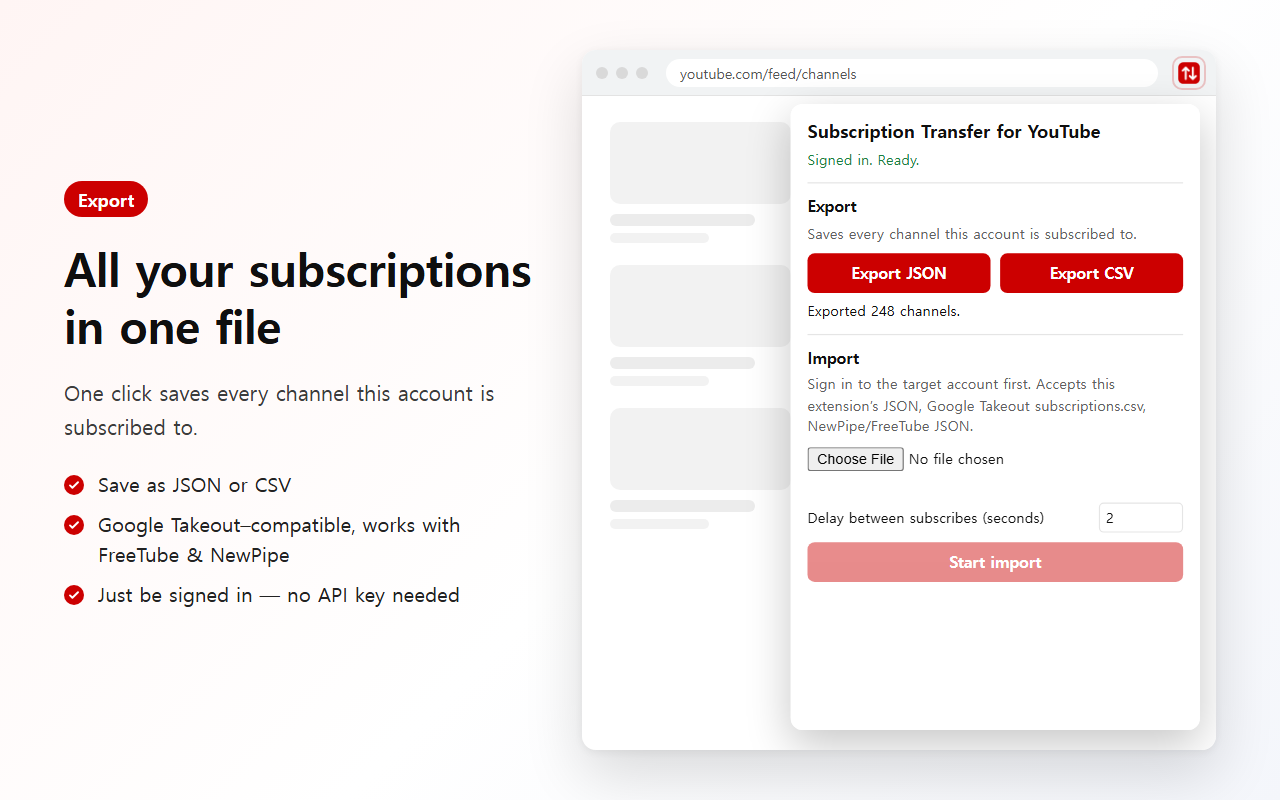
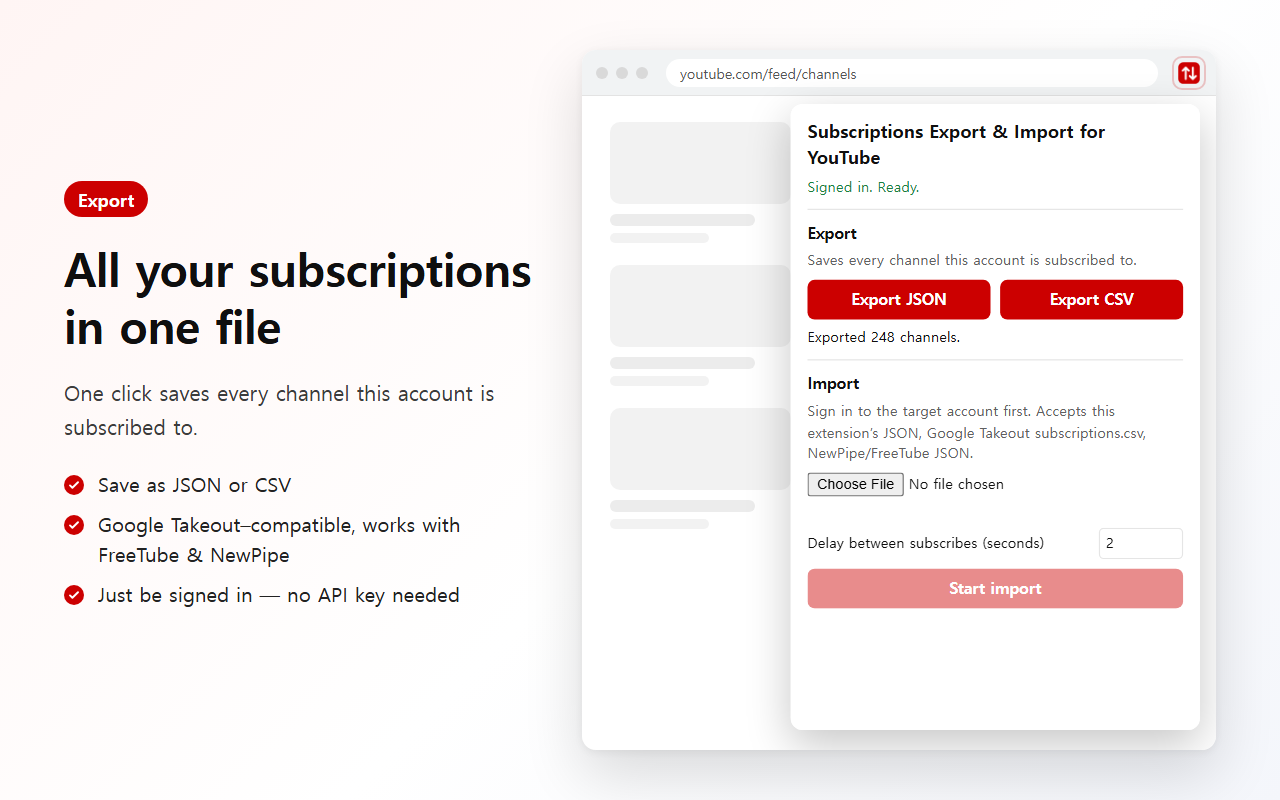
영어 이름을 Subscriptions Export & Import for YouTube로 변경
스토어 검색어(export/import)가 이름에 들어가도록 수정, 영어 스크린샷·프로모션 타일 재생성

Claude-Session: https://claude.ai/code/session_01JHg1uSpqvDdwgKG2sFbbaw

Changed region(s): [[0.625, 0.1875, 0.9375, 0.7812], [0.7188, 0.1562, 0.875, 0.1875]]

diff --git a/store-assets/promo.html b/store-assets/promo.html
@@ -25,7 +25,7 @@
   const lang = new URLSearchParams(location.search).get('lang') || 'ko';
   const t = {
     ko: ['구독 내보내기·가져오기<br>(YouTube용)', '진짜로 무료입니다', '광고 없음 · 서버 없음 · 개인정보 수집 없음'],
-    en: ['Subscription Transfer<br>for YouTube', 'Truly free', 'No ads · No server · No data collected'],
+    en: ['Subscriptions Export<br>&amp; Import for YouTube', 'Truly free', 'No ads · No server · No data collected'],
   }[lang];
   document.getElementById('name').innerHTML = t[0];
   document.getElementById('free').textContent = t[1];

diff --git a/STORE.md b/STORE.md
@@ -10,7 +10,7 @@
 
 ## 스토어 등록 정보
 
-- **이름**: Subscription Transfer for YouTube / 구독 내보내기·가져오기 (YouTube용)
+- **이름**: Subscriptions Export & Import for YouTube / 구독 내보내기·가져오기 (YouTube용)
   (상표 정책: 이름이 "YouTube"로 시작하면 안 되고 "for YouTube" 형태로 써야 합니다. 아이콘에 YouTube 로고를 쓰면 안 됩니다.)
 - **카테고리**: 생산성(Productivity) 또는 도구(Tools)
 - **언어**: 한국어, 영어

diff --git a/README.md b/README.md
@@ -1,4 +1,4 @@
-# YouTube 구독 내보내기·가져오기 (Subscription Transfer for YouTube)
+# YouTube 구독 내보내기·가져오기 (Subscriptions Export & Import for YouTube)
 
 YouTube 구독 목록을 파일로 내보내고, 다른 계정으로 가져오는 크롬 확장 프로그램(Manifest V3)입니다. 완전 무료이고 서버나 API 키가 필요 없습니다.
 
